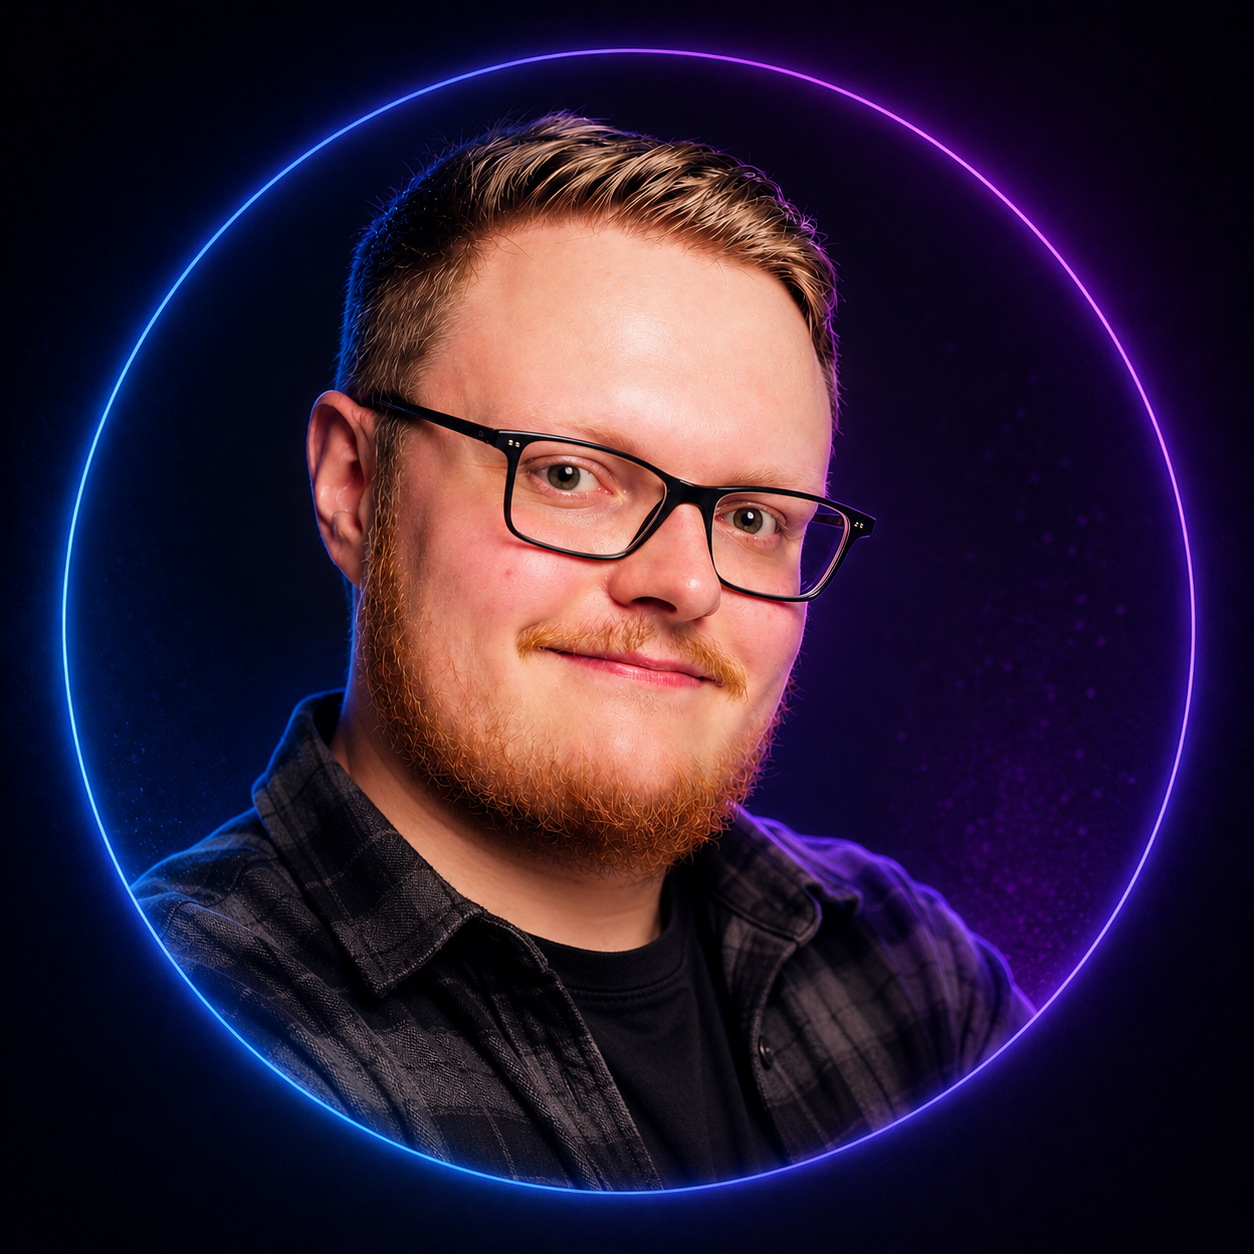
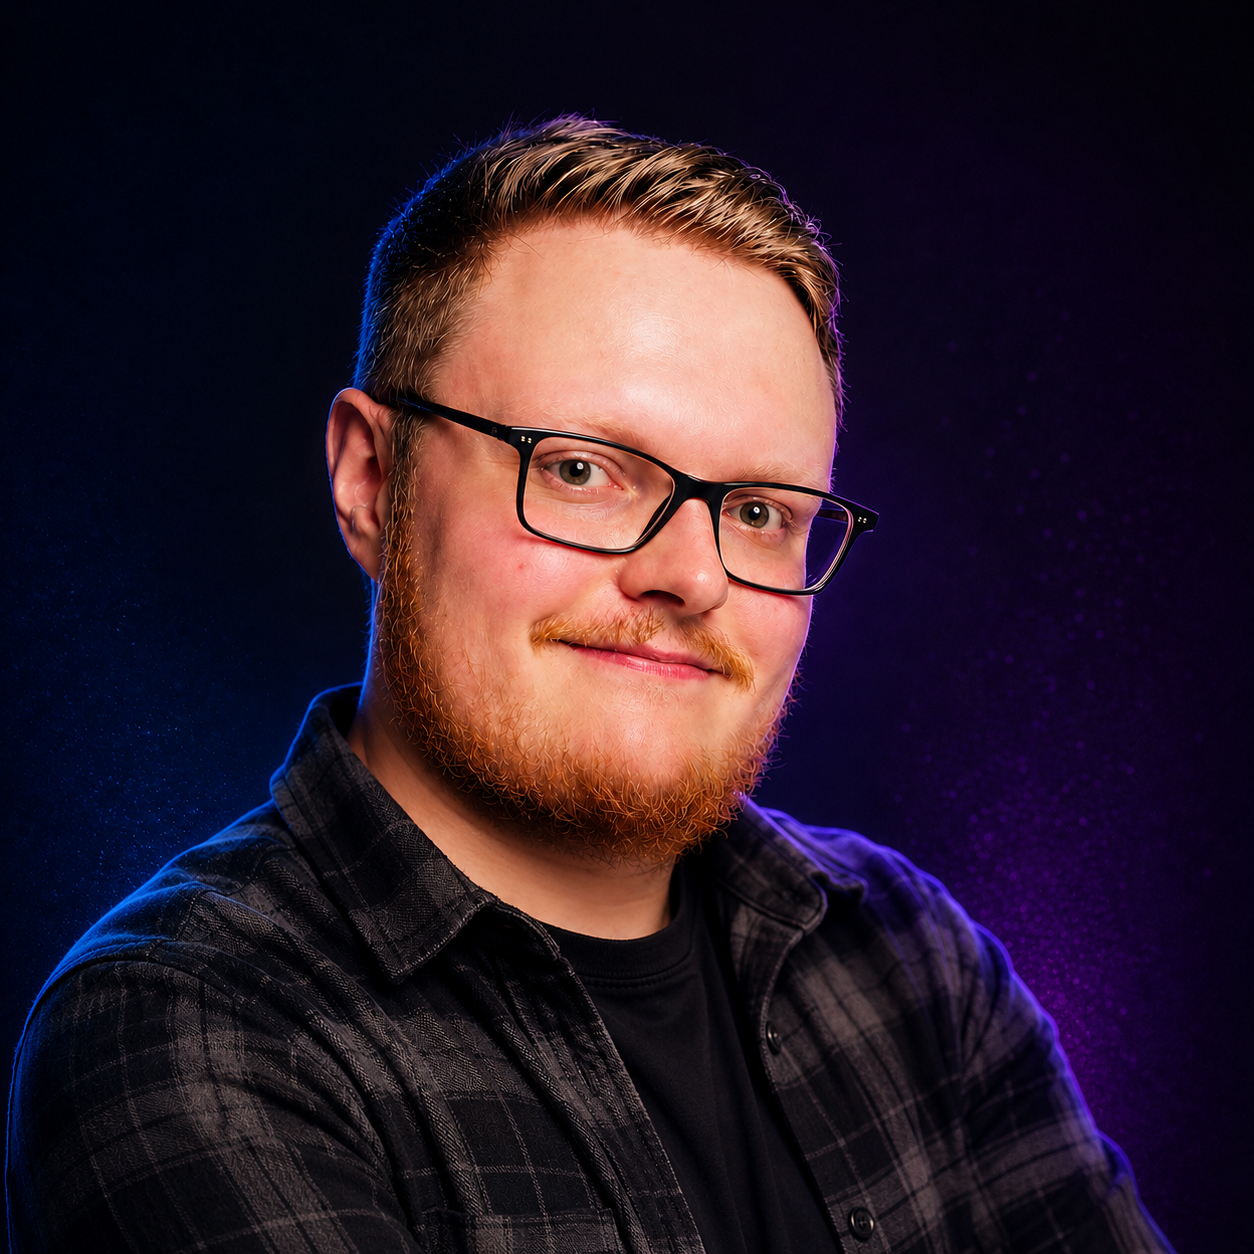
Datenmodell für das Skillsystem angelegt
Es wurde ein Datenmodell angelegt, mit dem künftig getestet werden kann.
Später sollen die Daten sowieso aus einer json ausgelesen werden, weshalb
es erst einmal nur simple Platzhalter sind.

#81

diff --git a/js/data/skills.js b/js/data/skills.js
@@ -1,9 +1,110 @@
-export const skills = [
+const skills = [
+    {
+        id: 1,
+        name: "HTML", 
+        category: "web",
+        description: "Basic HTML", 
+        detailedDescription: "Erstellung semantischer Webseiten mit Fokus auf Struktur, Accessibility und SEO.",
+        image: "assets/images/html.png",
+        skillList: [
+            {
+                name: "Semantisches HTML",
+                completed: true
+            }, 
+            {
+                name: "SEO Optimierung",
+                completed: false
+            }]
+    },  
 
     {
-        title: "HTML",
-        category: "frontend",
-        level: 90
-    }
+        id: 2,
+        name: "CSS", 
+        category: "web",
+        description: "Schöneres HTML", 
+        detailedDescription: "Styling der HTML Seiten auf moderne Art und Weise",
+        image: "assets/images/html.png",
+        skillList: [
+            {
+                name: "Flex-Display",
+                completed: false
+            }, 
+            {
+                name: "Hover-Effekte",
+                completed: true
+            }]
+    },  
+    
+    {
+        id: 3,
+        name: "JavaScript", 
+        category: "web",
+        description: "Funktionales HTML", 
+        detailedDescription: "Hinzufügen von Funktion und Logik auf der Webseite",
+        image: "assets/images/html.png",
+        skillList: [
+            {
+                name: "Schleifen",
+                completed: false
+            }, 
+            {
+                name: "Dynamisches Karussell",
+                completed: false
+            }]
+    },  
 
-];"use strict";
+        {
+        id: 4,
+        name: "C#", 
+        category: "software",
+        description: "Objektorientierte Progammiersprache", 
+        detailedDescription: "Programmiersprache aus dem .NET Framework",
+        image: "assets/images/html.png",
+        skillList: [
+            {
+                name: "Foreach-Schleifen",
+                completed: false
+            }, 
+            {
+                name: "Lambda-Expressions",
+                completed: false
+            }]
+    },  
+
+        {
+        id: 5,
+        name: "WPF", 
+        category: "software",
+        description: "Windows Presentation Foundation", 
+        detailedDescription: ".NET Framework zum erstellen von PC Anwendungen",
+        image: "assets/images/html.png",
+        skillList: [
+            {
+                name: "XAML Layouts",
+                completed: false
+            }, 
+            {
+                name: "Data Binding",
+                completed: false
+            }]
+    },  
+
+        {
+        id: 6,
+        name: "Unity", 
+        category: "gamedev",
+        description: "Game Development Engine", 
+        detailedDescription: "Eine umfangreiche Engine zum erstellen von Spielen, Filmen nd weiteren Medienformen",
+        image: "assets/images/html.png",
+        skillList: [
+            {
+                name: "Unity C#",
+                completed: false
+            }, 
+            {
+                name: "Animator",
+                completed: false
+            }]
+    },  
+    ]
+

diff --git a/css/layout/sidebar.css b/css/layout/sidebar.css
@@ -45,7 +45,6 @@
 
     width: clamp(150px, 68%, 220px);
     aspect-ratio: 1;
-    padding: 6px;
     margin-bottom: var(--spacing-sm);
 
     border: 2px solid rgba(124, 77, 255, 0.78);
